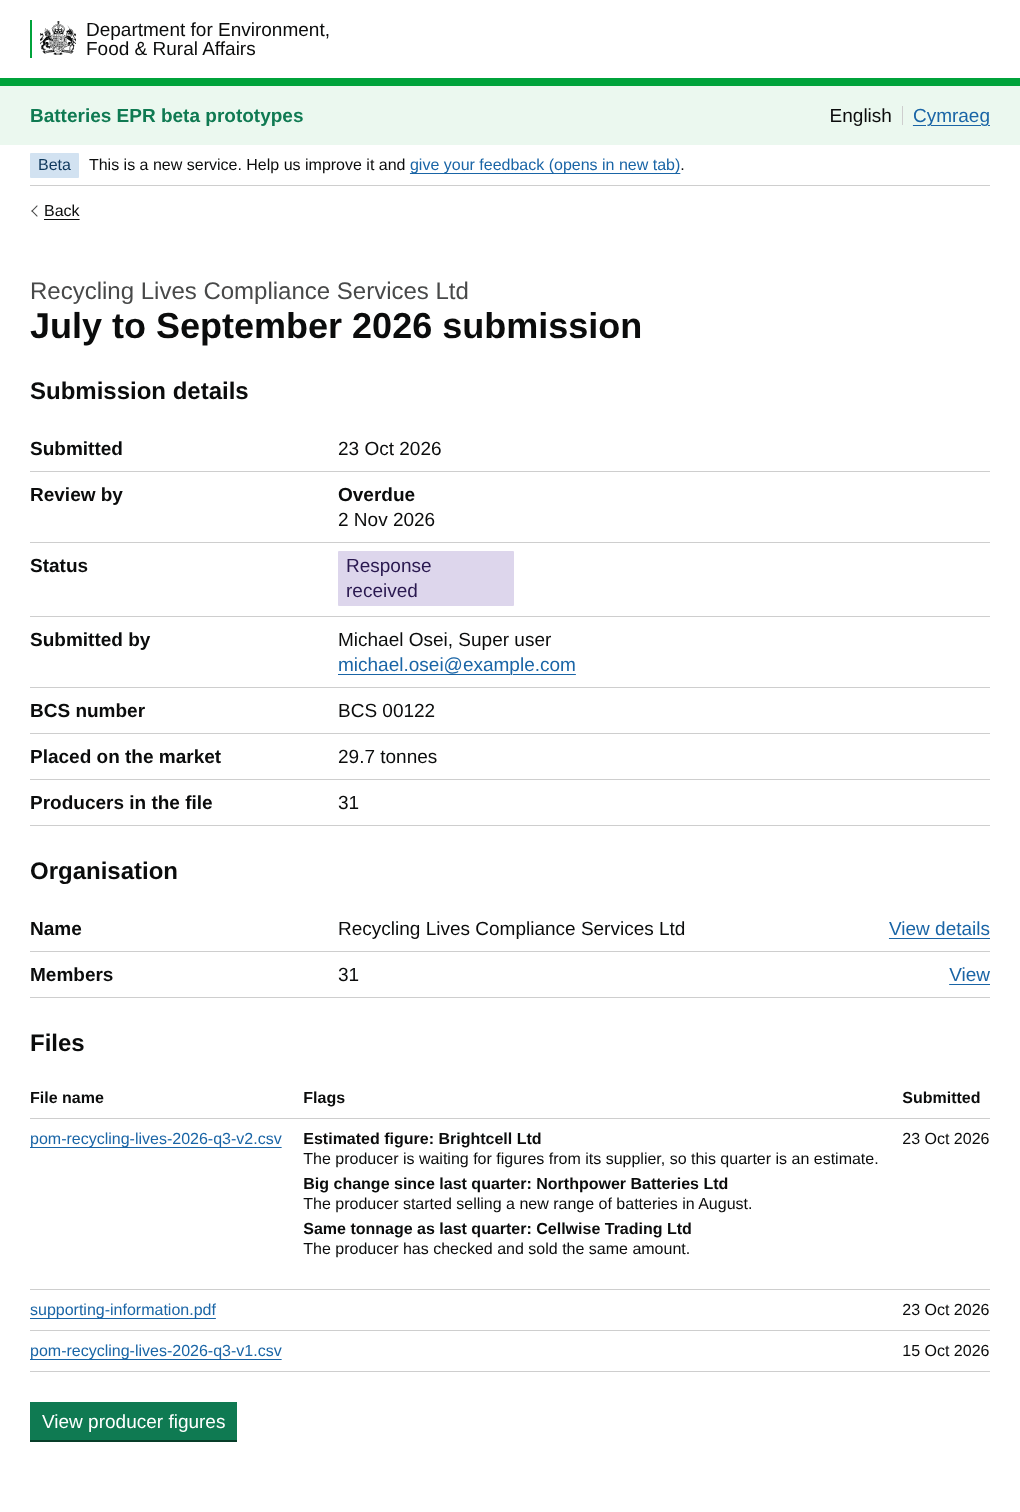
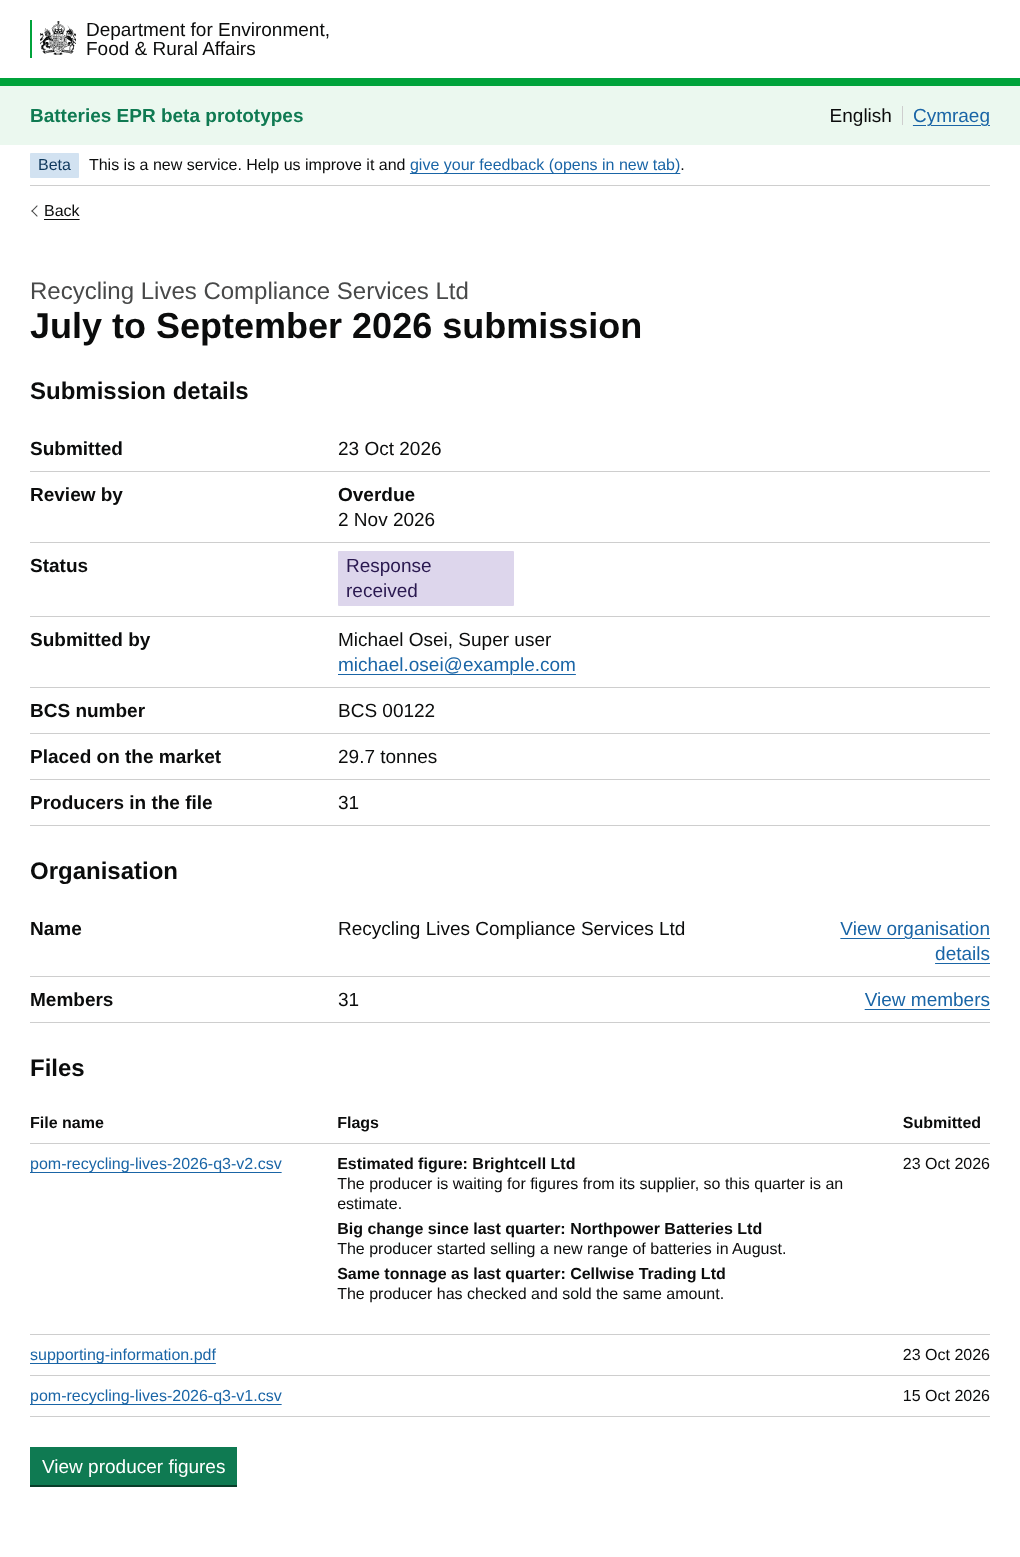
EB-325 full: flags line up with the summary lists (add-on), View organisation details and View members
Claude-Session: https://claude.ai/code/session_014pBrKbgm5Jfdzkw7drhM9g

diff --git a/app/views/changes/add-pom-submission-page.html b/app/views/changes/add-pom-submission-page.html
@@ -18,7 +18,7 @@
 <p class="govuk-body"><strong>Brief version: 1 page (Marie and Jen)</strong></p>
 <ul class="govuk-list govuk-list--bullet"><li>Submission details: submitted, review by, status (the tag is in the list), who submitted it and their role (&quot;Tom Fielding, Admin&quot;), and the version (&quot;2 of 2&quot;, with a link to earlier versions)</li><li>One files table, full width, in 16px text and the MOJ scrollable pane: the file name (it opens the file: in the same tab for now, as &quot;(opens in new tab)&quot; made the names too long), the flags written out against the file they're in, and submitted (the same word as the list). Who submitted is in the details above, so it's not in the table</li><li>View producer figures straight after the files: it's the main thing to do next. The organisation details and members come after it, as they're needed less</li><li>The scheme's organisation details in a details component named after the scheme (for example &quot;Recycling Lives Compliance Services Ltd organisation details&quot;), view only. Emails are links. The people who can submit are in the list, everyone, however many</li><li>A link to the scheme's members below it (for example &quot;Recycling Lives Compliance Services Ltd members&quot;)</li><li>&quot;Admin&quot; for the top of the scheme's account</li><li>From &quot;View&quot; on the brief list. Scheme names on that list aren't links any more, so two links in a row don't go to the same place</li></ul>
 <p class="govuk-body"><strong>Full version: 2 pages (Rich)</strong></p>
-<ul class="govuk-list govuk-list--bullet"><li>Page 1, the submission: details with the status in the list and Rich's extras (days left, BCS number, tonnage and producers in the file). Then a short Organisation list (name, with View details, and members, with View), so the organisation is near the top but after the submission. Then the same files table as the brief version, plus the scheme's reason under each flag, then View producer figures. All full width, so the labels fit on one line and line up with the table</li><li>Page 2, organisation details: Change links, so we can ask the business whether regulators can change them. The people who can submit, with their emails (if someone's authority has ended, they're not on the list). Users who can't submit are in a details component</li><li>&quot;Super user&quot; for the top of the scheme's account</li><li>From &quot;View submission&quot; (page 1) or a scheme name (page 2) on the full list</li></ul>
+<ul class="govuk-list govuk-list--bullet"><li>Page 1, the submission: details with the status in the list and Rich's extras (days left, BCS number, tonnage and producers in the file). Then a short Organisation list (the name, with View organisation details, and members, with View members), so the organisation is near the top but after the submission. Then the same files table as the brief version, plus the scheme's reason under each flag, then View producer figures. All full width, so the labels fit on one line, and the flags line up with the answers in the summary lists above</li><li>Page 2, organisation details: Change links, so we can ask the business whether regulators can change them. The people who can submit, with their emails (if someone's authority has ended, they're not on the list). Users who can't submit are in a details component</li><li>&quot;Super user&quot; for the top of the scheme's account</li><li>From &quot;View submission&quot; (page 1) or a scheme name (page 2) on the full list</li></ul>
 <p class="govuk-body"><strong>Both versions</strong></p>
 <ul class="govuk-list govuk-list--bullet"><li>The scheme name as a caption, and the status tag in the submission details</li><li>Submitted by shows the name and role, and their email as a link. All emails are links</li><li>On the Regulators list, the titles start FULL or BRIEF, so it's easy to see which is which</li><li>Back goes to the page before in the journey, worked out from the address, so it works without JavaScript</li><li>One label for the scheme's number, &quot;BCS number&quot;. No approval number: it's the same number</li><li>Left out, as agreed: conditions of approval, approved and expires, and account manager</li><li>The Action column is right aligned on both lists</li></ul>
 <p class="govuk-body"><strong>Questions</strong></p>

diff --git a/app/views/regulator/pom-submission/full.html b/app/views/regulator/pom-submission/full.html
@@ -19,7 +19,9 @@
   Everything is full width, so the labels fit on one line.
 
   Add-on: MOJ scrollable pane round the files table, and long text wraps
-  (app-table-cell--wrap), so only the table scrolls at small widths. See the README.
+  (app-table-cell--wrap), so only the table scrolls at small widths.
+  Add-on: the file name column is 30% wide (app-table-header--summary-key), so
+  the flags line up with the submission details above. See the README.
 
   The data: app/data/pom-submission-details.js (dummy).
   The words: app/content/regulator/pom-submission-full.md
@@ -91,12 +93,12 @@
       {
         key: { text: words.organisation },
         value: { text: org.name },
-        actions: { items: [{ href: organisationHref, text: words.viewDetailsLink, visuallyHiddenText: words.organisationDetailsHiddenText }] }
+        actions: { items: [{ href: organisationHref, text: words.viewOrganisationDetailsLink }] }
       },
       {
         key: { text: words.members },
         value: { text: org.members },
-        actions: { items: [{ href: notBuiltHref, text: words.viewMembersLink, visuallyHiddenText: words.membersHiddenText }] }
+        actions: { items: [{ href: notBuiltHref, text: words.viewMembersLink }] }
       }
     ] }) }}
 
@@ -106,7 +108,7 @@
         caption: words.filesTableCaption,
         captionClasses: "govuk-visually-hidden",
         head: [
-          { text: words.fileNameColumn, classes: small + " app-table-cell--wrap" },
+          { text: words.fileNameColumn, classes: small + " app-table-cell--wrap app-table-header--summary-key" },
           { text: words.flagsColumn, classes: small + " app-table-cell--wrap" },
           { text: words.submittedColumn, classes: small }
         ],

diff --git a/app/assets/sass/application.scss b/app/assets/sass/application.scss
@@ -38,6 +38,21 @@ $govuk-font-family-print: var(--app-font-family-print, sans-serif);
   white-space: normal;
 }
 
+// Add-on: a table's first column the same width as a summary list's labels
+// (30%), so the table's second column lines up with the summary list's answers
+// above it. From tablet up only: below that, summary lists stack.
+// WHY: on the full submission page, the flags line up with the submission
+// details above them, which is easier to scan.
+// USE: add this class to the first column's header in the table.
+// FOR DEVELOPERS: build this. It's a design decision, not a prototype shortcut.
+.app-table-header--summary-key {
+  @include govuk-media-query($from: tablet) {
+    // The summary list's labels are 30% wide plus 20px of padding, which is
+    // about 32% at desktop width. (calc() doesn't work on table cell widths.)
+    width: 32%;
+  }
+}
+
 // Add-on: one fix to the MOJ scrollable pane. Visually hidden text inside the
 // table (for example "View submission (Valpak Ltd)") is positioned absolutely,
 // so without this it escapes the pane and makes the whole page scroll sideways

diff --git a/README.md b/README.md
@@ -100,6 +100,14 @@ developers should build, and the ones that only make the prototype work.
 - **Added by:** Marie Moyles, November 2026
 - **To remove:** remove the class from those cells and the style
 
+#### Table column lined up with a summary list
+
+- **What it does:** makes a table's first column 30% wide, the same as a summary list's labels, so the table's second column lines up with the answers in the summary list above. From tablet up only
+- **Why:** on the full submission page, the flags line up with the submission details above them, which is easier to scan
+- **Where:** the `app-table-header--summary-key` style in `app/assets/sass/application.scss`, on the File name header of the full submission page
+- **Added by:** Marie Moyles, November 2026
+- **To remove:** remove the class and the style: the columns then size to their content
+
 #### Filters in a row
 
 - **What it does:** puts filter dropdowns and their button side by side with a fixed 10px gap, wrapping onto a new line when there isn't room. The button lines up with the bottom of the dropdowns. Full width, one under the other, on a phone

diff --git a/app/content/regulator/pom-submission-full.md b/app/content/regulator/pom-submission-full.md
@@ -76,17 +76,11 @@ Organisation
 ## Organisation (the label for the scheme's name)
 Name
 
-## View details link
-View details
-
-## Organisation details hidden text (only screen readers hear this, after View details)
-organisation details
+## View organisation details link
+View organisation details
 
 ## Members
 Members
 
 ## View members link
-View
-
-## Members hidden text (only screen readers hear this, after View)
-members
+View members
